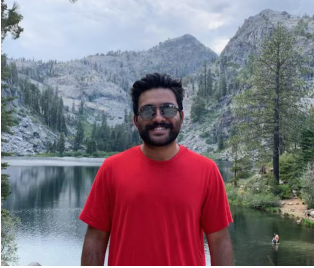
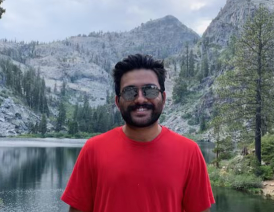
Update images

diff --git a/js/profile-pic.js b/js/profile-pic.js
@@ -1,8 +1,9 @@
 // List of image URLs
 const images = [
-  { src: "img/linkedin.jpg", weight: 0.5 },
-  { src: "img/lego_wings.jpg", weight: 0.25 },
-  { src: "img/eagle_lake.png", weight: 0.25 },
+  { src: "img/linkedin.jpg", weight: 0.25 },
+  { src: "img/lego_wings.jpg", weight: 0.15 },
+  { src: "img/eagle_lake.png", weight: 0.3 },
+  { src: "img/singapore.jpg", weight: 0.3 },
 ];
 
 function setRandomImage() {
